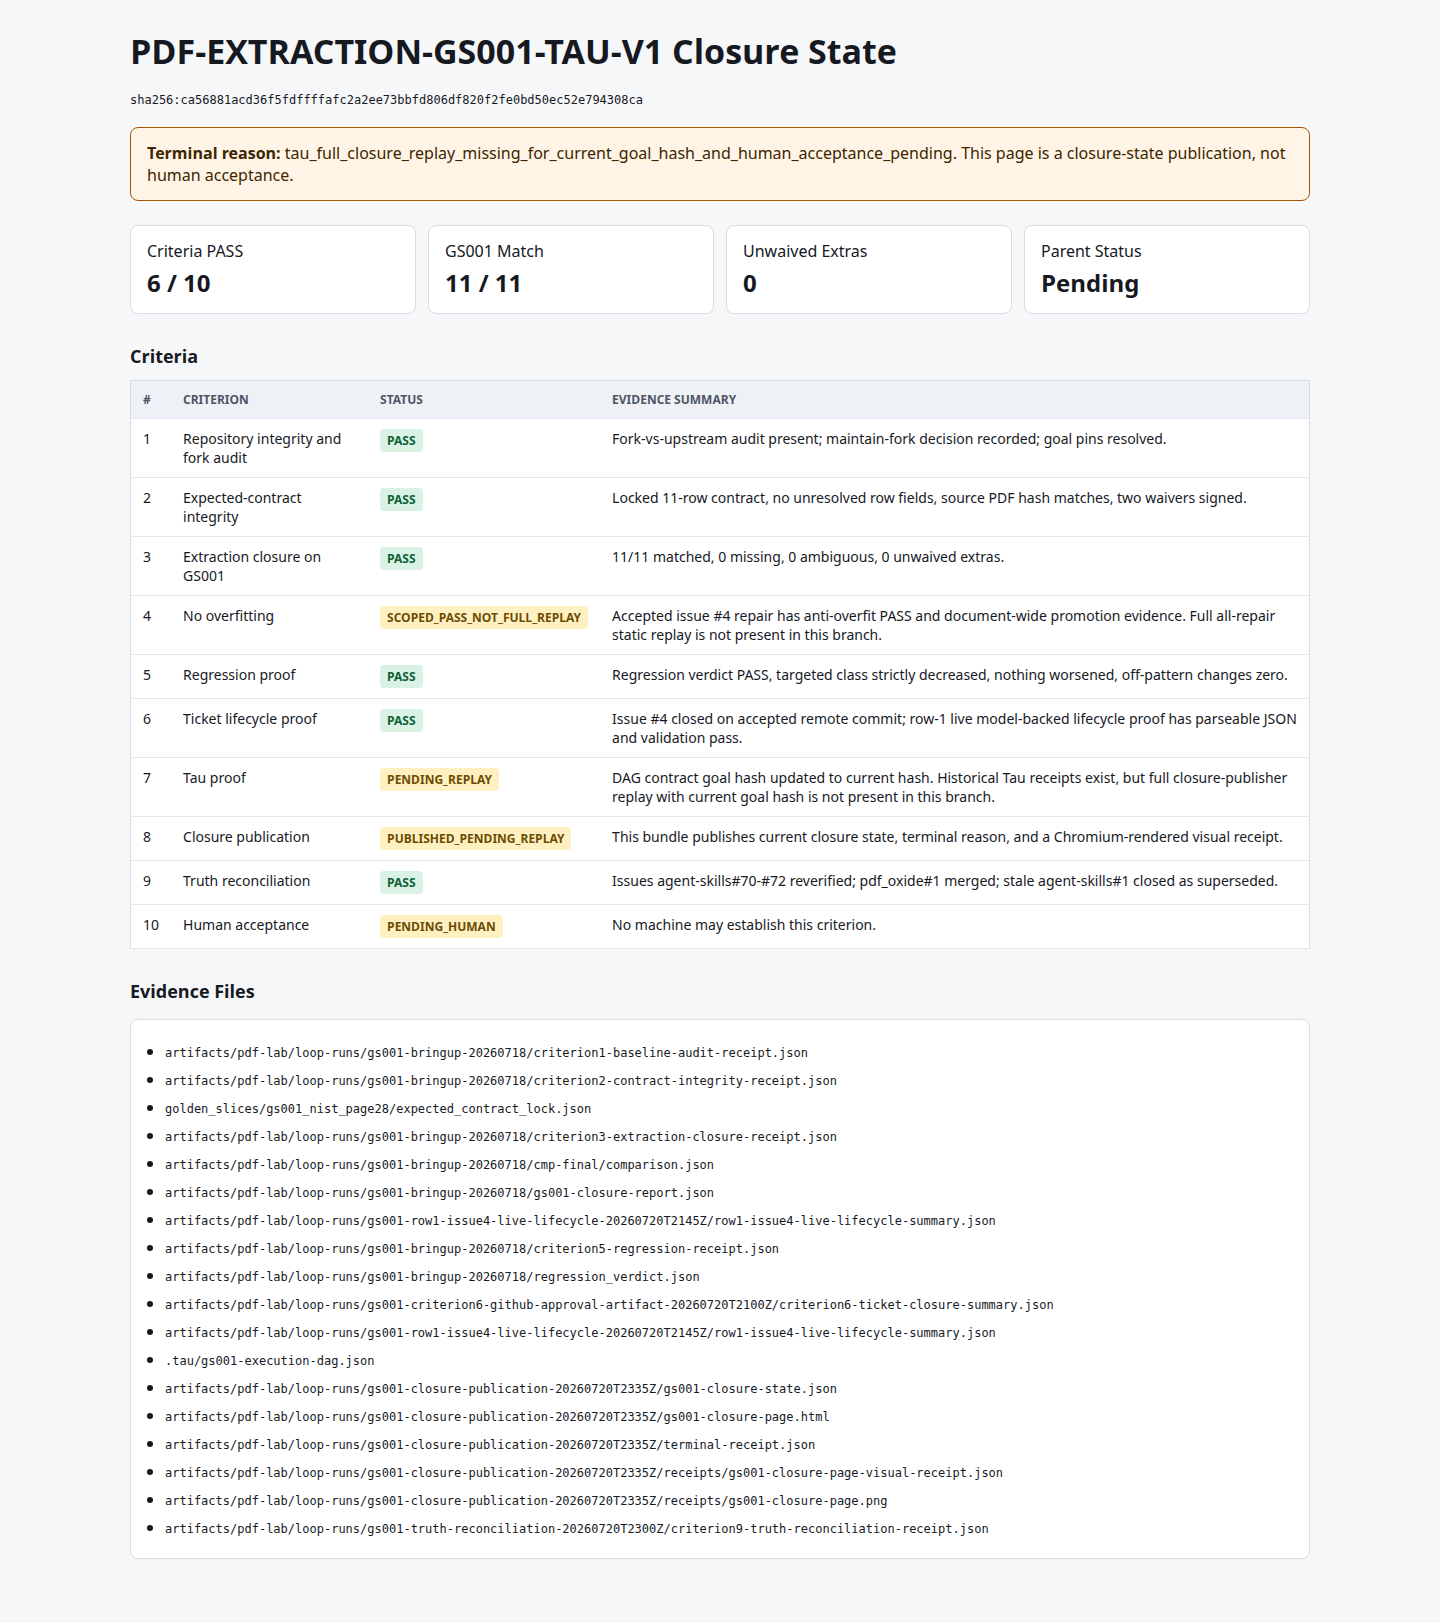
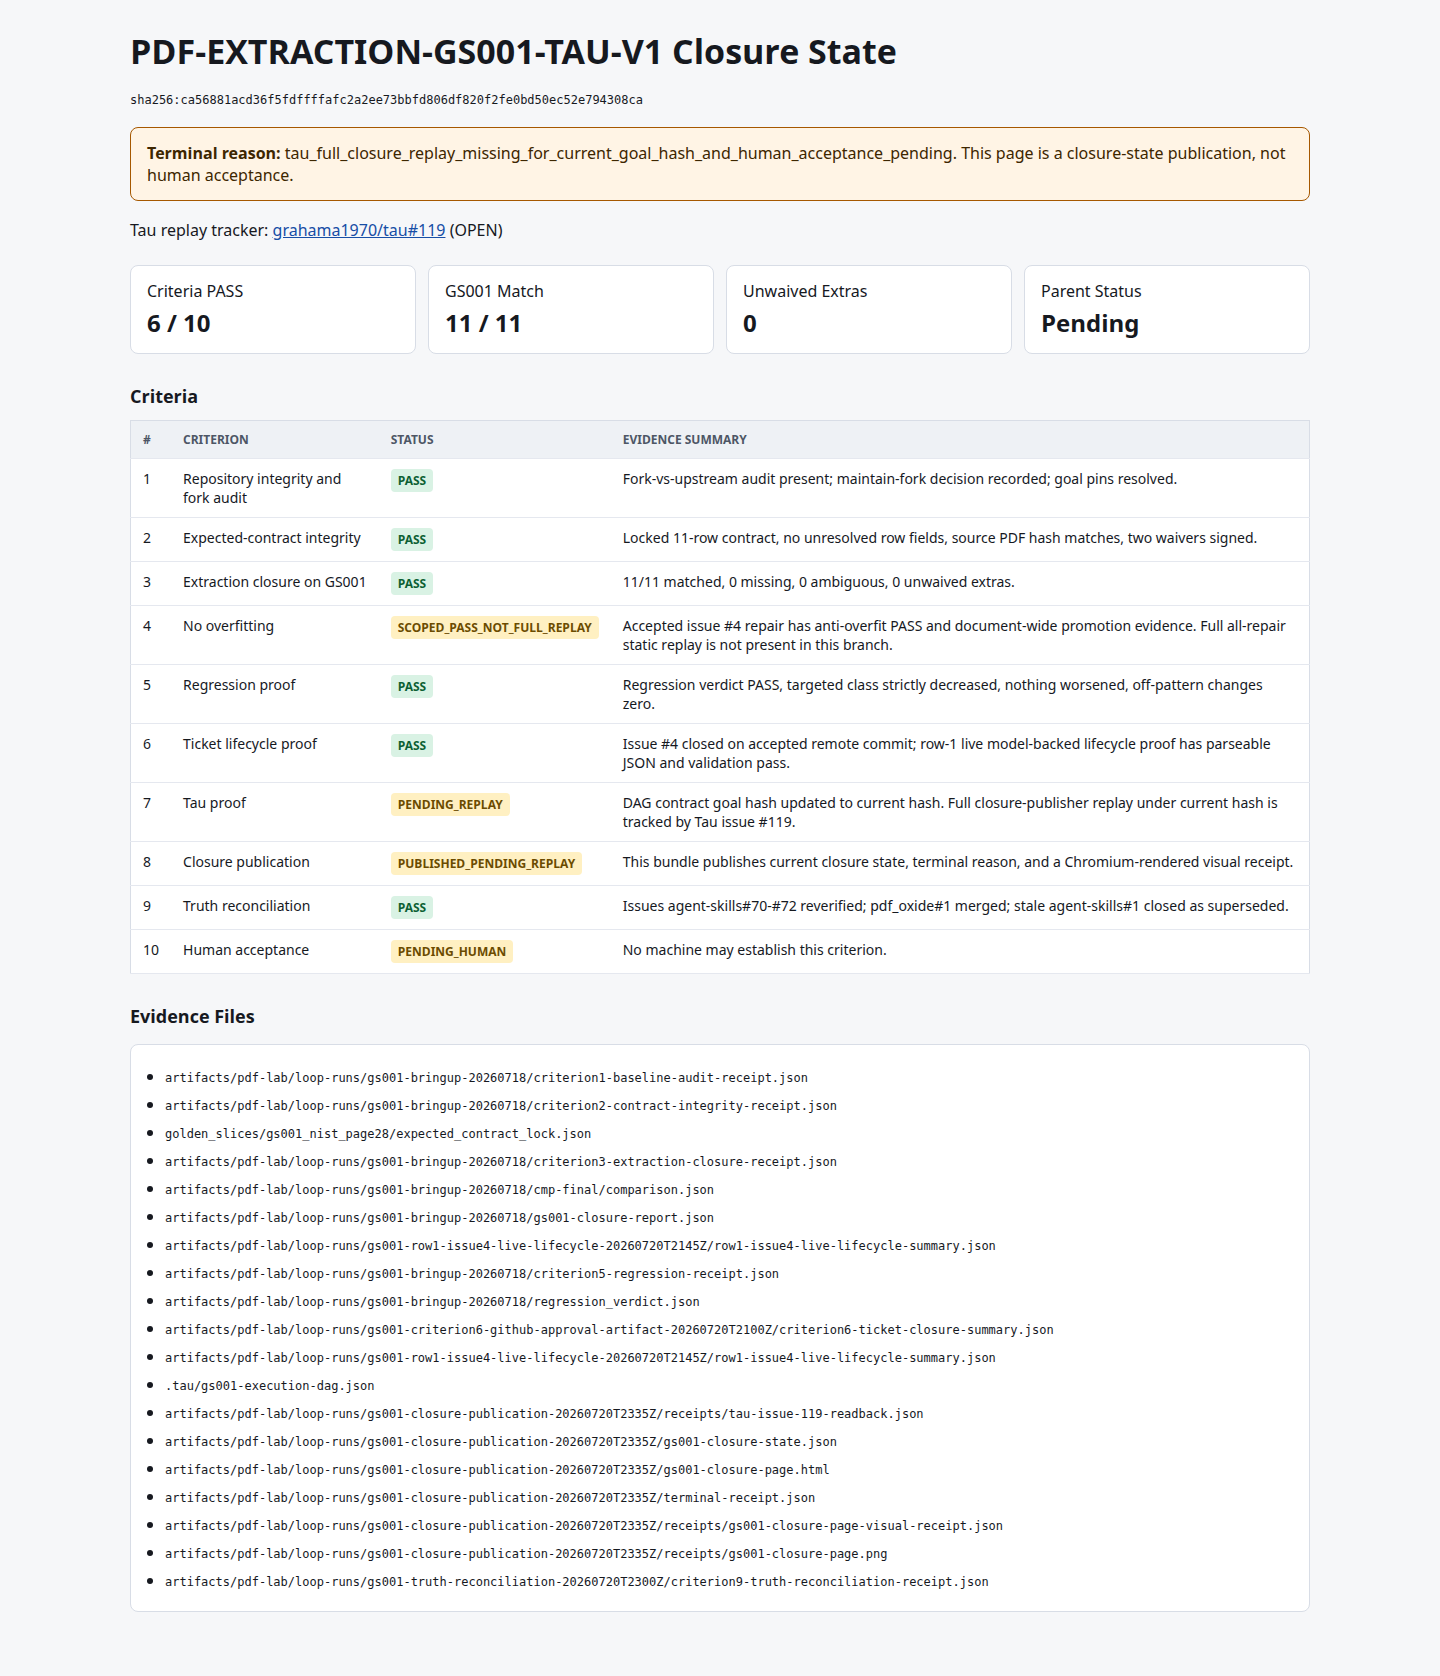
artifacts: link GS001 closure replay to tau ticket

diff --git a/artifacts/pdf-lab/loop-runs/gs001-closure-publication-20260720T2335Z/gs001-closure-page.html b/artifacts/pdf-lab/loop-runs/gs001-closure-publication-20260720T2335Z/gs001-closure-page.html
@@ -22,6 +22,7 @@
   .pending_human, .pending_replay, .published_pending_replay, .scoped_pass_not_full_replay { background: #fff0c2; color: #6b4b00; }
   ul { background: #fff; border: 1px solid #d8dde6; border-radius: 8px; padding: 14px 18px 14px 34px; }
   li { margin: 6px 0; }
+  a { color: #174ea6; }
   @media (max-width: 820px) { .summary { grid-template-columns: 1fr 1fr; } main { padding: 22px 14px 36px; } }
 </style>
 </head>
@@ -30,6 +31,7 @@
   <h1>PDF-EXTRACTION-GS001-TAU-V1 Closure State</h1>
   <p><code>sha256:ca56881acd36f5fdffffafc2a2ee73bbfd806df820f2fe0bd50ec52e794308ca</code></p>
   <div class='banner'><strong>Terminal reason:</strong> tau_full_closure_replay_missing_for_current_goal_hash_and_human_acceptance_pending. This page is a closure-state publication, not human acceptance.</div>
+  <p>Tau replay tracker: <a href='https://github.com/grahama1970/tau/issues/119'>grahama1970/tau#119</a> (OPEN)</p>
   <section class='summary'>
     <div class='metric'>Criteria PASS<b>6 / 10</b></div>
     <div class='metric'>GS001 Match<b>11 / 11</b></div>
@@ -43,7 +45,7 @@
 <tr><td>4</td><td>No overfitting</td><td><span class='status scoped_pass_not_full_replay'>SCOPED_PASS_NOT_FULL_REPLAY</span></td><td>Accepted issue #4 repair has anti-overfit PASS and document-wide promotion evidence. Full all-repair static replay is not present in this branch.</td></tr>
 <tr><td>5</td><td>Regression proof</td><td><span class='status pass'>PASS</span></td><td>Regression verdict PASS, targeted class strictly decreased, nothing worsened, off-pattern changes zero.</td></tr>
 <tr><td>6</td><td>Ticket lifecycle proof</td><td><span class='status pass'>PASS</span></td><td>Issue #4 closed on accepted remote commit; row-1 live model-backed lifecycle proof has parseable JSON and validation pass.</td></tr>
-<tr><td>7</td><td>Tau proof</td><td><span class='status pending_replay'>PENDING_REPLAY</span></td><td>DAG contract goal hash updated to current hash. Historical Tau receipts exist, but full closure-publisher replay with current goal hash is not present in this branch.</td></tr>
+<tr><td>7</td><td>Tau proof</td><td><span class='status pending_replay'>PENDING_REPLAY</span></td><td>DAG contract goal hash updated to current hash. Full closure-publisher replay under current hash is tracked by Tau issue #119.</td></tr>
 <tr><td>8</td><td>Closure publication</td><td><span class='status published_pending_replay'>PUBLISHED_PENDING_REPLAY</span></td><td>This bundle publishes current closure state, terminal reason, and a Chromium-rendered visual receipt.</td></tr>
 <tr><td>9</td><td>Truth reconciliation</td><td><span class='status pass'>PASS</span></td><td>Issues agent-skills#70-#72 reverified; pdf_oxide#1 merged; stale agent-skills#1 closed as superseded.</td></tr>
 <tr><td>10</td><td>Human acceptance</td><td><span class='status pending_human'>PENDING_HUMAN</span></td><td>No machine may establish this criterion.</td></tr></tbody></table>
@@ -60,6 +62,7 @@
 <li><code>artifacts/pdf-lab/loop-runs/gs001-criterion6-github-approval-artifact-20260720T2100Z/criterion6-ticket-closure-summary.json</code></li>
 <li><code>artifacts/pdf-lab/loop-runs/gs001-row1-issue4-live-lifecycle-20260720T2145Z/row1-issue4-live-lifecycle-summary.json</code></li>
 <li><code>.tau/gs001-execution-dag.json</code></li>
+<li><code>artifacts/pdf-lab/loop-runs/gs001-closure-publication-20260720T2335Z/receipts/tau-issue-119-readback.json</code></li>
 <li><code>artifacts/pdf-lab/loop-runs/gs001-closure-publication-20260720T2335Z/gs001-closure-state.json</code></li>
 <li><code>artifacts/pdf-lab/loop-runs/gs001-closure-publication-20260720T2335Z/gs001-closure-page.html</code></li>
 <li><code>artifacts/pdf-lab/loop-runs/gs001-closure-publication-20260720T2335Z/terminal-receipt.json</code></li>